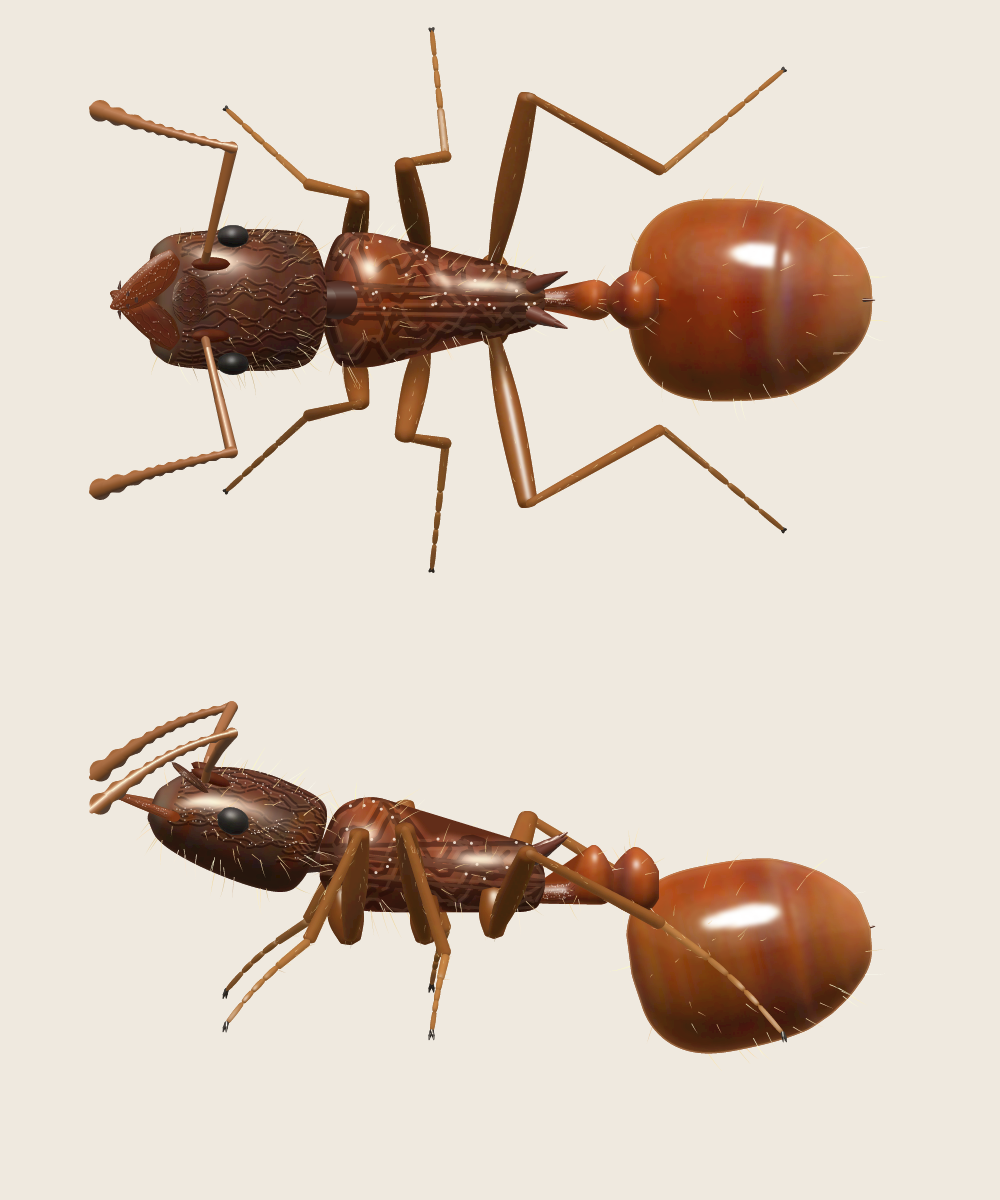
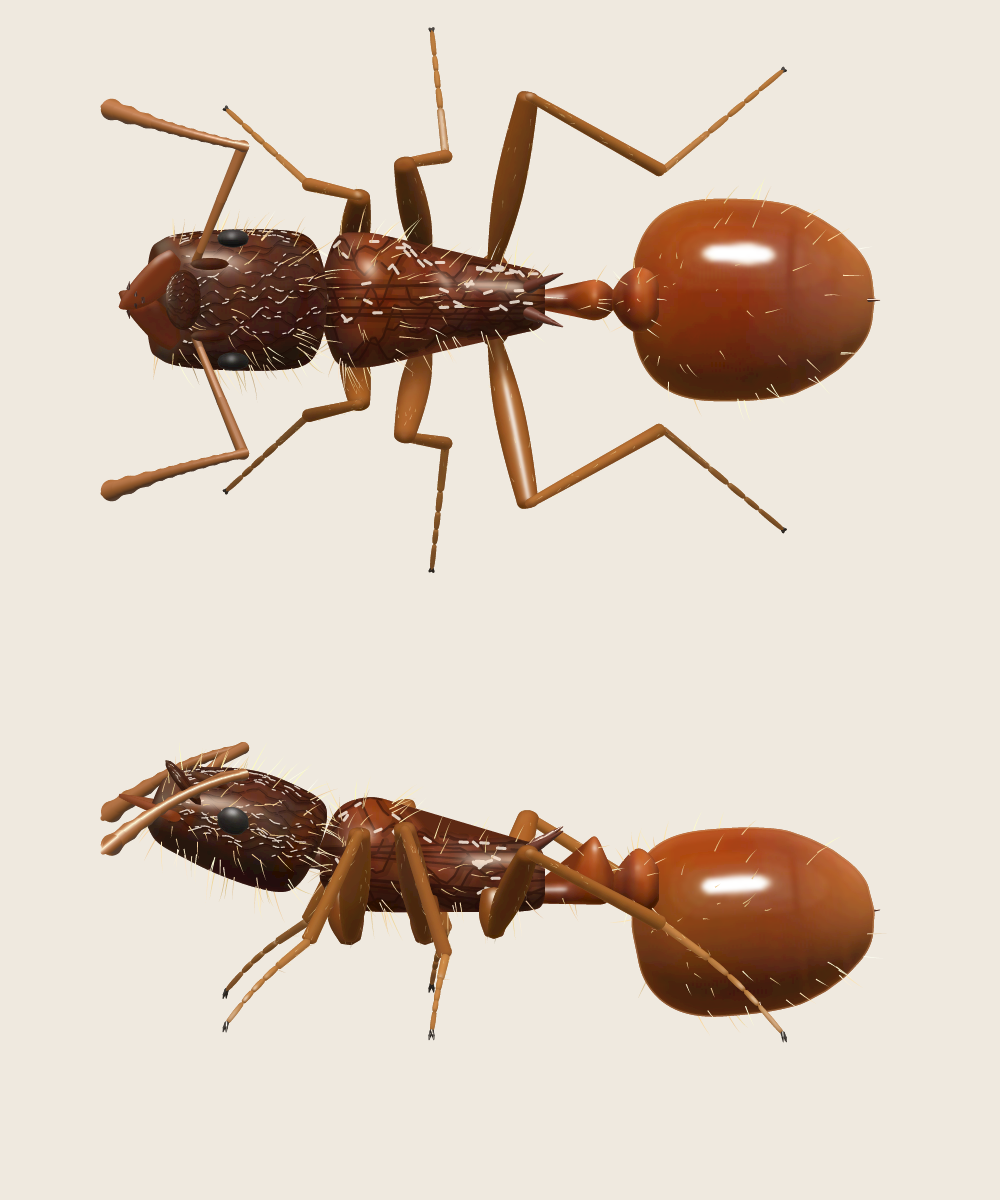
Fourmi rouge : corrections du troisième juge, sinuosité calée par simulation
Artefacts retirés : couronne d'épines (propodéum émoussé, pédoncule lisse), bloc du cou, ellipse du vertex, fente de face,
reflet rectangulaire et bandes du gastre (grille lissée le long de l'axe). Rides sans trait clair, éclats en tirets sur les crêtes.
Runtime : virage d'Ornstein-Uhlenbeck, simulé à 8,7 mm/s et 159 deg/cm en exploration, 21,6 mm/s et 91 deg/cm en alarme.

diff --git a/insectes/fourmi-rouge/COMPORTEMENT.md b/insectes/fourmi-rouge/COMPORTEMENT.md
@@ -1,0 +1,38 @@
+# Fourmi rouge : comportement (runtime/fourmi-rouge.mjs, MYRMICA)
+
+L'ouvrière de *Myrmica rubra* marche au sol, au pied du bouquet. Elle n'est jamais dirigée par le joueur. Un clic l'alarme.
+
+## Chiffres sourcés
+
+| grandeur | valeur retenue | source |
+|---|---|---|
+| vitesse en exploration | 8,5 à 9,6 mm/s | Cammaerts et al. 2012, tableau 1 (ouvrières de *M. rubra*, papier vierge : moyennes 9,6 et 8,5 mm/s selon la méthode, valeurs de 6 à 12,5) |
+| sinuosité en exploration | 154 à 162°/cm | même tableau (vitesse angulaire, papier vierge) |
+| vitesse en alarme | 18 à 25 mm/s | tableau 1 (tête de congénère, 18,3 à 18,9 mm/s) et tableau 4 (tête de *M. rubra*, 24,6 mm/s) |
+| sinuosité en alarme | 77 à 115°/cm | tableaux 1 (115) et 4 (77) : la fourmi alarmée va plus droit |
+| allure | tripode alterné (L1 R2 L3 contre R1 L2 R3) | Clifton et al. 2020, §2.3 ; Zollikofer 1994 (le tripode domine sur une large gamme de vitesses) |
+| longueur de pas | 0,67 longueur de corps, soit 3,3 mm | Clifton et al. 2020 : 1,8 à 2,6 mm (moyenne 2 mm) pour une ouvrière de 3 mm, rapporté à 4,9 mm |
+| cadence | v / pas : 2,7 Hz à 9 mm/s, 6 à 7 Hz en alarme | Clifton et al. 2020 : la vitesse se règle par la cadence plus que par le pas (R² 0,91 contre 0,50) |
+| balayage du pied | ± 0,8 mm (1,6 mm sur l'appui) | facteur d'appui 0,5 × pas ; le facteur d'appui n'est pas mesuré dans Clifton et al. (§4.8) |
+
+Sources :
+- M.-C. Cammaerts, F. Morel, F. Martino, N. Warzée (2012). *An easy, cheap computerized method to assess two-dimensional trajectory
+  parameters.* Belgian Journal of Zoology 142 (2) : 147-153.
+- G. T. Clifton, D. Holway, N. Gravish (2020). *Uneven substrates constrain walking speed in ants through modulation of stride
+  frequency more than stride length.* Royal Society Open Science 7 : 192068. doi:10.1098/rsos.192068 (fourmi d'Argentine, 3 mm).
+- C. P. E. Zollikofer (1994). *Stepping patterns in ants I.* Journal of Experimental Biology 192 : 95-106.
+
+## Chiffres de travail (à mesurer sur vidéo, comme ceux du machaon)
+- **Arrêts.** Un arrêt toutes les 3 à 9 s, de 0,4 à 2,5 s. Pendant l'arrêt, la fourmi tâte le sol de ses antennes (pose « palpe »,
+  4 dessins, 2,2 battements par seconde, en alternance gauche et droite).
+- **Rencontres.** Deux fourmis, rouges ou noires, à moins de 1,4 longueur de corps et l'une devant l'autre : elles s'arrêtent face à
+  face et s'antennent 0,8 à 2 s. Puis chacune repart, tournée de 70 à 125°, et ne rencontre plus personne pendant 2,5 s.
+- **Alarme au clic.** Demi-tour de 110 à 250°, course de 3 à 5 s aux vitesses d'alarme, puis retour à l'exploration.
+- **Bords.** La bande de sol a ses bords. À moins de 6 longueurs de corps d'un bord, la fourmi tourne vers l'intérieur, à 3 rad/s au plus.
+
+## Atlas et runtime
+- **Poses de l'atlas.** `pose` (1 dessin), `marche` (8 dessins du tripode), `palpe` (4 dessins). Le dessin de marche suit la phase,
+  qui avance de v / 3,3 mm par seconde. Le miroir d'une vue décale la marche d'un demi-cycle (`vue.pickCell`).
+- **Nombre.** Sept à huit fourmis à l'écran, rouges et noires ensemble (DECISIONS). La démo en accepte 8 au plus (`?fourmi-rouge=8`).
+- **Widget.** Le ramassage des pétales fanés au clic (DECISIONS, widget Belai Bureau) n'est pas fait ici. Il se construira sur ces
+  états : marche vers un pétale, arrêt et palpe, puis retour.
